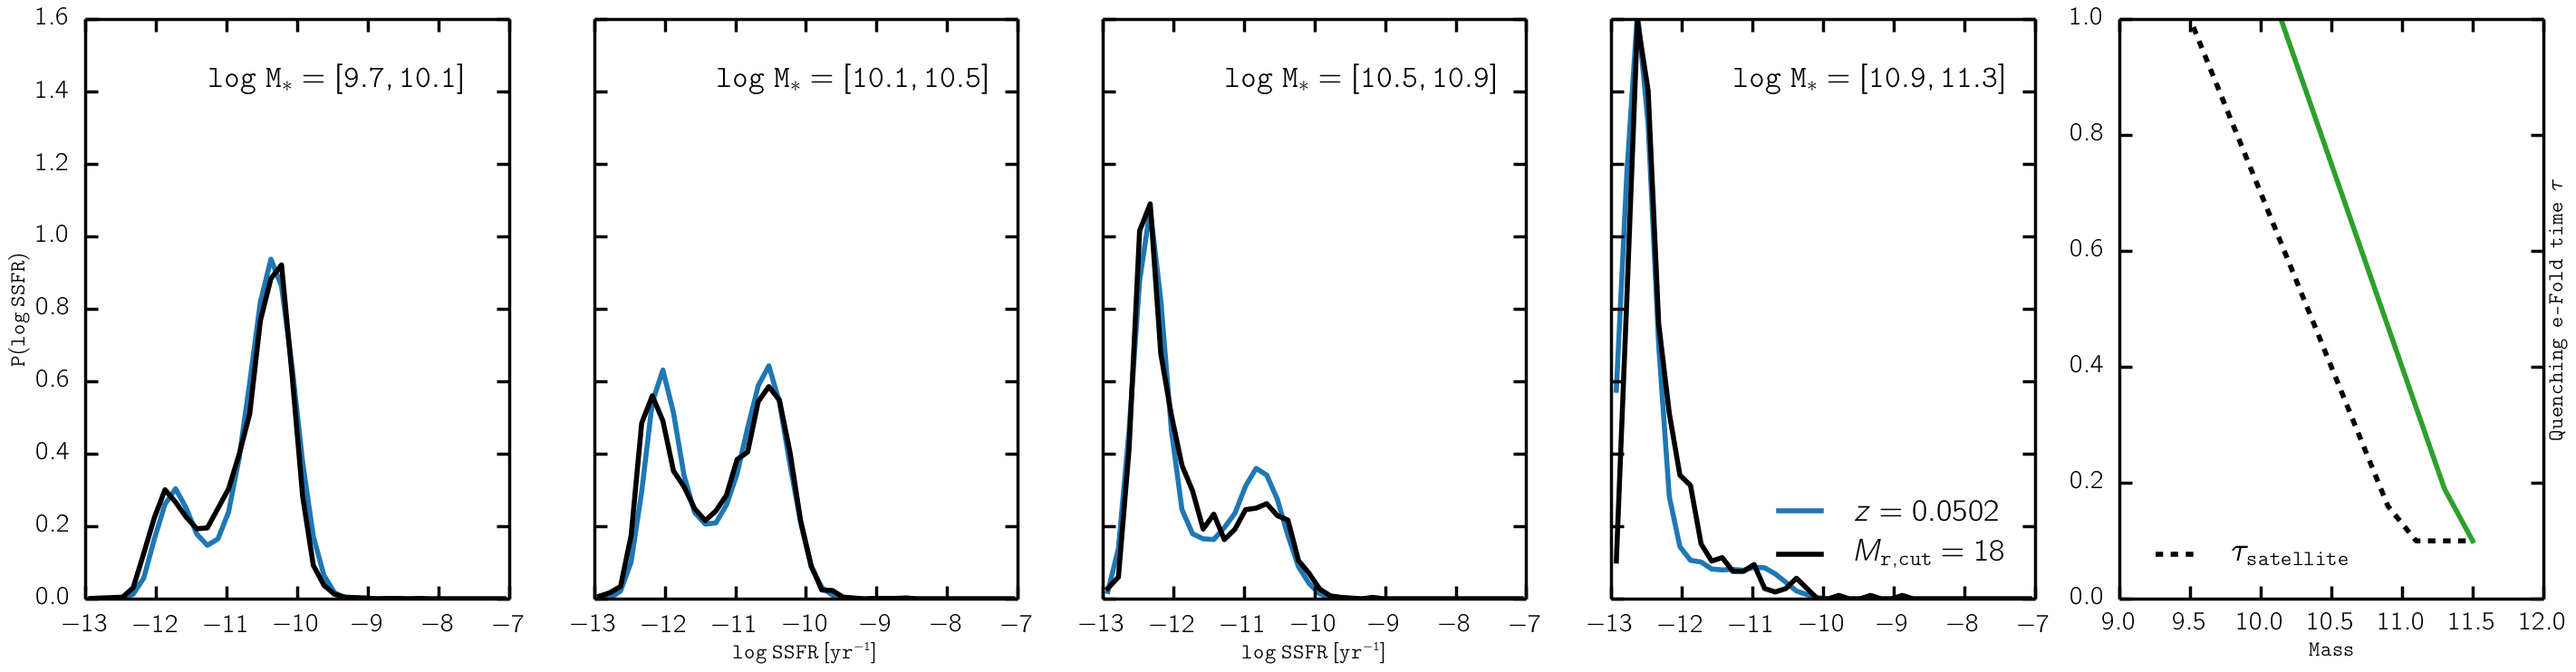
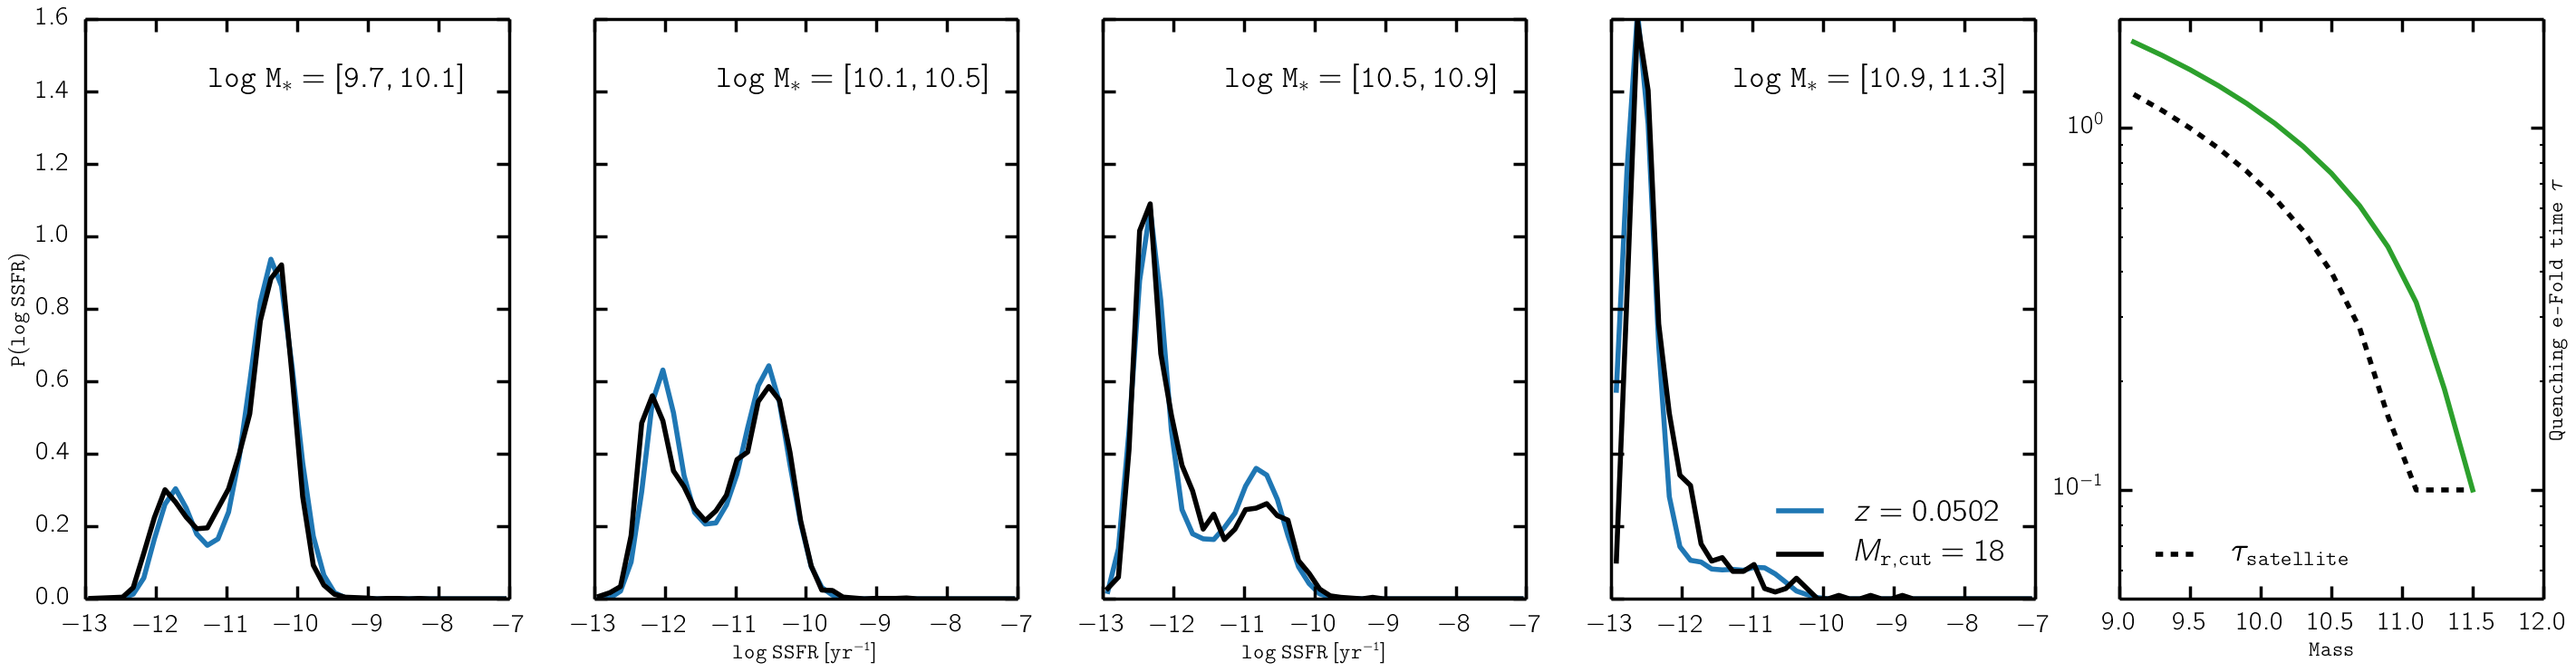
integrated mass implentation required; square function instead of triangle function preserves gaussians

diff --git a/sf_mainseq.py b/sf_mainseq.py
@@ -204,26 +204,32 @@ def sf_duty_test():
     nsnaps = n_snaps[n_snaps < 13]
 
     sfr_gauss = 0.3 * np.random.randn(10000)   # SFR gaussian with 0.3 dex sigma 
-    sfr_w = (2.0 * np.pi)/np.random.uniform(0.1, 0.5, 10000)  # frequency
+    sfr_w = (2.0 * np.pi)/np.random.uniform(0.01, 0.1, 10000)  # frequency
     sfr_d = np.random.uniform(0.0, 1.0, 10000)
-    sfr_amp = sfr_gauss / np.sin( sfr_d ) 
-    sfr_t = lambda t: sfr_amp * np.sin( sfr_w * (t - t_snap[n_snaps == 12]) - sfr_d )
+    #sfr_amp = sfr_gauss / np.sin( sfr_d ) 
+    #sfr_t = lambda t: sfr_amp * np.sin( sfr_w * (t - t_snap[n_snaps == 12]) - sfr_d )
 
-    #sfr_A = 0.3 * np.random.randn(10000)
+    sfr_A = 0.3 * np.random.randn(10000)
+    sfr_t = lambda t: sfr_A * signal.square(sfr_w * (t - t_snap[n_snaps == 12] + sfr_d))
     #sfr_t = lambda t: sfr_A * signal.sawtooth(sfr_w * (t - t_snap[n_snaps == 12] + sfr_d), width=0.5)
     #sfr_t = lambda t: sfr_a * (t - t_snap[n_snaps == 12] + sfr_b) % sfr_A
     #sfr_t = lambda t: sfr_gauss + 0.3
     
     fig = plt.figure(1, figsize = (10,10))
     sub = fig.add_subplot(111)
+    sfr_tsnap = np.zeros(10000) 
     for i_t, t in enumerate(t_snaps): 
-        sfr_hist, sfr_bin_edges = np.histogram(sfr_t(t), range=[-1.0, 1.0], bins=100)
+
+        sfr_hist, sfr_bin_edges = np.histogram(sfr_tsnap + sfr_t(t), range=[-1.0, 1.0], bins=100)
         sfr_bin_low = sfr_bin_edges[:-1]
         sfr_bin_high = sfr_bin_edges[1:]
         sfr_bin_mid = [ 0.5*(sfr_bin_low[i] + sfr_bin_high[i]) 
                 for i in range(len(sfr_bin_low)) ] 
     
         sub.plot(sfr_bin_mid, sfr_hist, color=pretty_colors[i_t+1], lw=2, label='Snapshot '+str(n_snaps[i_t]))
+    
+        sfr_tsnap += sfr_t(t)
+        print np.float(len(sfr_tsnap[(sfr_tsnap < 0.1) & (sfr_tsnap > -0.1)]))/np.float(len(sfr_tsnap))
     
     sfr_hist, sfr_bin_edges = np.histogram(0.3 * np.random.randn(10000), 
             range=[-1.0, 1.0], bins=100)

diff --git a/cenque.py b/cenque.py
@@ -465,10 +465,10 @@ def EvolveCenQue(origin_nsnap, final_nsnap, mass_bin=None, **kwargs):
     
         ''' SFR evolution is assumed to be equal to the overall change in SFR  
         '''
-        dSFR = child_sfr - parent_sfr
+        dSFRt = child_sfr - parent_sfr          # overall change in SFR
         
         # evolve sf children SFR
-        child_cq.sfr[sf_child_indx] = child_cq.parent_sfr[sf_child_indx] + dSFR   
+        child_cq.sfr[sf_child_indx] = child_cq.parent_sfr[sf_child_indx] + dSFRt
         child_cq.ssfr[sf_child_indx] = child_cq.sfr[sf_child_indx] - child_cq.mass[sf_child_indx]
 
         # Quenching Children ------------------------------------------------        

diff --git a/cenque_plot.py b/cenque_plot.py
@@ -138,7 +138,8 @@ def plot_cenque_ssfr_dist(cenque, fig=None, **kwargs):
         sub.plot(mass_bin.mass_mid, tau_mass, color=pretty_colors[5], lw=4) 
         
         sub.set_xlim([9.0, 12.0])
-        sub.set_ylim([0.0, 1.0])
+        sub.set_ylim([0.05, 2.0])
+        sub.set_yscale('log') 
         sub.set_xlabel('Mass') 
         sub.set_ylabel(r'Quenching e-Fold time $\tau$') 
         sub.yaxis.set_label_position('right')
